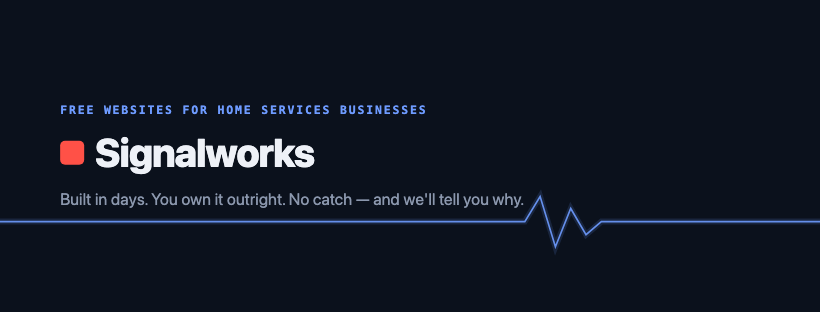
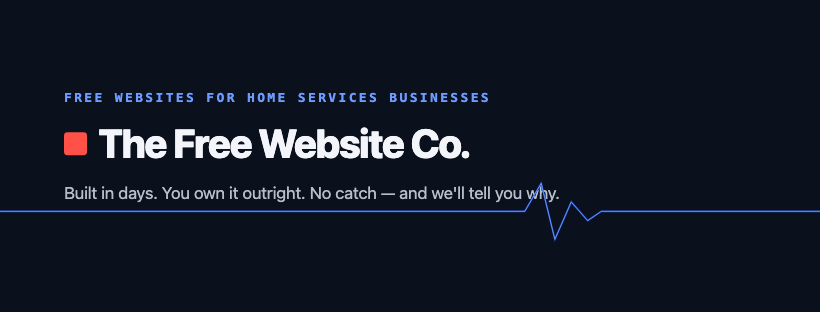
Rename Signalworks → The Free Website Co. (freewebsiteco.com)
- config: BRAND.name/short/parent slot, SITE_URL → https://freewebsiteco.com
- compact wordmark (BRAND.short) in header, footer, film header; parent byline slot in footer
- replace hardcoded brand strings in pages, demos, and living docs; prompt/source docs left verbatim
- regenerate og.png + social banners; retire name/domain checklist items
- ASSUMPTIONS entry for the rename

Changed region(s): [[0.0, 0.5769, 1.0, 0.8077], [0.061, 0.4038, 0.5793, 0.5769], [0.061, 0.2885, 0.6098, 0.375]]

diff --git a/src/config.ts b/src/config.ts
@@ -8,15 +8,19 @@
  * real numbers exist — FREE_BUILD.capacityPerMonth and CLEARED_SERVICES.
  */
 
-// Vercel preview URL until the real domain lands; swap once, everything follows.
-export const SITE_URL = 'https://signalworks-hall-hub.vercel.app';
+// The real domain. Vercel alias signalworks-hall-hub.vercel.app keeps working as a fallback.
+export const SITE_URL = 'https://freewebsiteco.com';
 
 export const BRAND = {
-  name: 'Signalworks',
+  name: 'The Free Website Co.',
+  /** Compact wordmark for headers/footers. */
+  short: 'Free Website Co.',
+  /** Parent/operating brand byline ("a ___ company"). Empty = no byline rendered. */
+  parent: '',
   tagline: 'Websites and apps that get service businesses found, called, and booked.',
   // Default meta description; individual pages override it.
   description:
-    'Signalworks builds free, professional websites — home services businesses first (HVAC, plumbing, electrical, roofing, landscaping), every business welcome. You own it outright: domain, files, everything. Built in days with AI-assisted development.',
+    'The Free Website Co. builds free, professional websites — home services businesses first (HVAC, plumbing, electrical, roofing, landscaping), every business welcome. You own it outright: domain, files, everything. Built in days with AI-assisted development.',
 } as const;
 
 export const CONTACT = {

diff --git a/src/styles/global.css b/src/styles/global.css
@@ -1,5 +1,5 @@
 /* ==========================================================================
-   Signalworks design system
+   The Free Website Co. design system
    Plain, direct, confident. Paper + ink + one signal color.
    ========================================================================== */
 
@@ -155,7 +155,7 @@ a:hover {
   background: var(--signal-tint);
 }
 
-/* Monospace eyebrow label — the recurring Signalworks motif */
+/* Monospace eyebrow label — the recurring brand motif */
 .eyebrow {
   font-family: var(--font-mono);
   font-size: var(--text-xs);

diff --git a/docs/LAUNCH-CHECKLIST.md b/docs/LAUNCH-CHECKLIST.md
@@ -1,4 +1,4 @@
-# Signalworks — Launch Checklist
+# The Free Website Co. — Launch Checklist
 
 Everything standing between here and a live business, in run-down order.
 Check things off as you go. **⚡ = I can do it the moment you say so.
@@ -8,19 +8,14 @@ Check things off as you go. **⚡ = I can do it the moment you say so.
 
 ## 0 · Decisions that unblock everything else (do these first)
 
-- [ ] 👤 **Name & domain decision.** The Signalworks namespace is crowded:
-  signalworks.com / .co / .io / .us are taken, and variants
-  (getsignalworks.com, trysignalworks.com, signalworkshq.com,
-  signalworks.site) were all registered within the last year — other
-  people are actively branding on this name. Options: (a) find an angle
-  that's free (signalworks.build / .dev / .studio looked possibly open —
-  verify at a registrar), (b) ~~run a USPTO search~~ **done — a LIVE PENDING
-  `SIGNALWORKS` application exists in class 042 (web design services),
-  serial 99570293; see §2**, (c) consider a name adjustment now, while it
-  costs nothing. Everything below (email, socials, GBP) waits on
-  this.
-- [ ] 👤 Buy the domain in **your own registrar account** (the same rule
-  the runbook gives clients).
+- [x] 👤 **Name & domain decision — DONE 2026-09-06.** Renamed to
+  **The Free Website Co.** and bought **freewebsiteco.com**. The name says
+  the offer, avoids the crowded "Signalworks" namespace entirely, and
+  retires the USPTO conflict (serial 99570293) — no attorney consult
+  needed for the mark. A parent/operating brand for paid services and
+  invoices is still to be chosen (~30-day horizon, before the first upsell).
+- [x] 👤 Buy the domain in **your own registrar account** — done, GoDaddy,
+  2026-09-06.
 - [ ] 👤 **Business email** on that domain (Google Workspace ~$7/mo or
   Zoho free tier). No @gmail on the site.
 - [ ] 👤 **Business phone number** (Google Voice is free; OpenPhone if you
@@ -78,7 +73,7 @@ Check things off as you go. **⚡ = I can do it the moment you say so.
   link, submit a form, open every page.
 - [ ] ⚡ Submit the sitemap to Google Search Console + Bing Webmaster
   Tools (needs the domain verified in your accounts).
-- [ ] 👤 Create a **Google Business Profile for Signalworks** — you're a
+- [ ] 👤 Create a **Google Business Profile for The Free Website Co.** — you're a
   service business in LA; practice what the site preaches.
 
 ## 2 · Legal & money
@@ -119,7 +114,7 @@ Check things off as you go. **⚡ = I can do it the moment you say so.
     serial **99570293**, classes **009 and 042**. Visible recital:
     "Downloadable mobile applications for tracking the user's…"
   **Why 042 matters:** class 042 is the class that covers website design
-  and development services — the exact class Signalworks would operate
+  and development services — the exact class The Free Website Co. would operate
   and register in. An identical wordmark, pending, in your class is the
   one scenario the earlier note flagged as worth real advice.
   **Nuance that cuts both ways:** it is *pending*, not registered
@@ -130,7 +125,7 @@ Check things off as you go. **⚡ = I can do it the moment you say so.
   an attorney do it.
 - [ ] 👤 **Trademark attorney consult (~$200–500, 30 minutes) — now
   justified, was optional.** Ask exactly: (1) what does serial 99570293
-  actually claim in class 042, (2) can I *use* Signalworks for web design
+  actually claim in class 042, (2) can I *use* The Free Website Co. for web design
   services under common law, (3) could I ever *register* it, (4) does
   their pending application create real cease-and-desist exposure. Use vs.
   register are different questions with different answers. Not legal
@@ -144,14 +139,14 @@ Check things off as you go. **⚡ = I can do it the moment you say so.
 - [ ] ⚡ GitHub org structure for client repos (repo per client domain,
   per the runbook).
 - [ ] 👤 **Stripe platform readiness** — Tyler's plan (2026-08-26):
-  create a **separate Signalworks tenant/account inside the LHF Stripe
+  create a **separate The Free Website Co. tenant/account inside the LHF Stripe
   organization**, which cleanly solves the red team's top blocker — the
-  client-facing brand is Signalworks, books stay separable, and LHF stays
+  client-facing brand is The Free Website Co., books stay separable, and LHF stays
   the parent. Then: (a) confirm the public business name + statement
-  descriptor on that tenant reads "Signalworks," (b)
+  descriptor on that tenant reads "The Free Website Co.," (b)
   update the platform's business description for the web-design use case
   (Stripe ToS: accurate representation), (c) attorney blesses the
-  LHF-platform/Signalworks-brand structure, (d) CPA confirms how
+  LHF-platform/The Free Website Co.-brand structure, (d) CPA confirms how
   platform-fee revenue books across entities. ⚡ Then I build Connect
   onboarding + pay page + one demo transaction, closing catalog A2.
 - [ ] 👤 **Track hours on the first three free builds** — the whole model
@@ -190,7 +185,7 @@ Check things off as you go. **⚡ = I can do it the moment you say so.
 - [ ] 👤 **GBP live before outreach, not after** — skeptical owners
   Google you first; a verified profile with real photos is the cheapest
   legitimacy signal there is.
-- [ ] ⚡ Decide on a small **"Site by Signalworks" footer credit** on
+- [ ] ⚡ Decide on a small **"Site by The Free Website Co." footer credit** on
   client builds (with an opt-out in the terms). It's the strongest free
   referral channel this model has.
 - [ ] ⚡ Content seeds I can draft: the "why free" explainer post, a

diff --git a/docs/pricing-proposal-care-suite.md b/docs/pricing-proposal-care-suite.md
@@ -7,7 +7,7 @@
 
 Design principles: quantities, never "unlimited support" vagueness;
 deliverables and response times, never outcomes; cancel anytime with the
-5-day full handoff on every tier; priced from Signalworks' real cost
+5-day full handoff on every tier; priced from The Free Website Co.'s real cost
 basis (static sites need no plugin babysitting) rather than agency
 convention.
 
@@ -83,10 +83,10 @@ owner's-guide template.
 ## Payments — "Get Paid Online" via Stripe Connect (added 2026-08-18)
 
 **Model:** Stripe Connect **Standard** accounts — the client owns a full
-Stripe account (dashboard, payouts, KYC) connected to Signalworks as the
+Stripe account (dashboard, payouts, KYC) connected to The Free Website Co. as the
 platform. Honors the runbook rule (never process payments through our
 account) and the ownership promise (they can disconnect anytime and keep
-the account). Signalworks collects a disclosed per-transaction
+the account). The Free Website Co. collects a disclosed per-transaction
 application fee; funds never touch us.
 
 **Deliverables (every tier, setup free):**
@@ -100,7 +100,7 @@ application fee; funds never touch us.
 
 **Fee ladder — the fee falls as the plan rises:**
 
-| Tier | Signalworks platform fee | Client total per transaction |
+| Tier | The Free Website Co. platform fee | Client total per transaction |
 | --- | --- | --- |
 | Free build, no plan | 0.75% | 3.65% + 30¢ |
 | Lights On ($29) | 0.50% | 3.40% + 30¢ |
@@ -120,7 +120,7 @@ still want to skip 'mail a check.'"
   Cloudflare Pages Function + one end-to-end demo transaction.
 - Disclosure in: pay page footer, Care/Front Office agreements,
   free-build agreement "not free" list ("payment processing: Stripe's
-  fees plus a disclosed Signalworks platform fee"), and /terms/.
+  fees plus a disclosed The Free Website Co. platform fee"), and /terms/.
 - Attorney review line: Stripe is merchant of record; clients complete
   their own verification in Stripe's flow; 1099-K reporting is theirs.
 
@@ -128,12 +128,12 @@ still want to skip 'mail a check.'"
 
 Stripe Connect is ALREADY set up through Tyler's holding company, **Long
 Hall Financial** — that existing platform will be used rather than a new
-Signalworks Stripe account. Implications to resolve (red-team audit +
+The Free Website Co. Stripe account. Implications to resolve (red-team audit +
 attorney):
 - Client-facing disclosure must name the platform entity: clients will
   see Long Hall Financial in Stripe onboarding/statements unless a
-  Signalworks profile/descriptor is configured on the platform.
-- Entity structure question changes: Signalworks operating as a
+  The Free Website Co. profile/descriptor is configured on the platform.
+- Entity structure question changes: The Free Website Co. operating as a
   brand/DBA under Long Hall Financial may simplify (or complicate) the
   CPA conversation in checklist §2.
 - Stripe platform profile should accurately reflect the web-design

diff --git a/ASSUMPTIONS.md b/ASSUMPTIONS.md
@@ -426,3 +426,12 @@ items are the ones worth reviewing before launch.
 - GHL note for delivery: A2P texting registration per client takes
   days-to-weeks — start at kickoff (catalog A6 discipline applies to the
   Lead Capture and Reputation services now being sold).
+
+## 2026-09-06 — Rename: Signalworks → The Free Website Co.
+
+- **Decision (Tyler):** business and site renamed to **The Free Website Co.**; domain **freewebsiteco.com** bought at GoDaddy. Reasons: the name states the offer, the Signalworks namespace was crowded, and a LIVE/PENDING USPTO application for SIGNALWORKS in class 042 (serial 99570293) made the old name a legal risk. The trademark-attorney task is retired by the rename.
+- **Structure:** freewebsiteco.com is the lead-gen "door"; a separate parent/operating brand (to be chosen within ~30 days, before the first paid upsell) will carry paid services and invoices so the business stays decoupled from Long Hall Financial and exit-able. `BRAND.parent` in `src/config.ts` is an empty byline slot for it; the footer renders "a ___ company" only when it is set.
+- **Wordmark:** headers, footer, and the film header use the compact `BRAND.short` ("Free Website Co."); titles, meta, structured data, and legal text use the full `BRAND.name`.
+- **Left verbatim on purpose:** `docs/site-redraft-prompt.md`, `site-repair-prompt.md`, `site-upsell-prompt.md` (source-of-record prompts), `docs/trademark-consult-brief.md` (historical), earlier entries in this file, the GitHub repo name, the Vercel project name, and the `signalworks-hall-hub.vercel.app` alias (kept as a fallback URL).
+- **Assets:** `public/og.png` and the three social banners in `docs/brand-assets/` regenerated with the new name; `avatar-512.png` and `favicon.svg` are text-free and unchanged.
+- **Deploy:** `SITE_URL` → https://freewebsiteco.com; apex + www attached to the Vercel project; DNS at GoDaddy still to be pointed by Tyler (A @ 76.76.21.21, CNAME www → cname.vercel-dns.com).

diff --git a/docs/SERVICES-CATALOG.md b/docs/SERVICES-CATALOG.md
@@ -1,4 +1,4 @@
-# Signalworks — Full Service Catalog & Build Feasibility Map
+# The Free Website Co. — Full Service Catalog & Build Feasibility Map
 
 > Internal document — never published to the site. The public site only ever
 > shows services whose ledger rows below are CLOSED (see "The rule" at the
@@ -114,7 +114,7 @@ Gap to close: either (a) get certified and manage a small budget on your own bus
 
 | # | Assumption / prerequisite | Blocks | Status |
 |---|---|---|---|
-| A1 | Supabase (or equal) account strategy decided: client-owned vs. yours | Web apps, portals | CLOSED — client-owned accounts (Supabase, Stripe, domain, email). Signalworks retains admin access for delivery and Care Plan work. This matches the public "your data, your accounts, your code" promise. |
+| A1 | Supabase (or equal) account strategy decided: client-owned vs. yours | Web apps, portals | CLOSED — client-owned accounts (Supabase, Stripe, domain, email). The Free Website Co. retains admin access for delivery and Care Plan work. This matches the public "your data, your accounts, your code" promise. |
 | A2 | Stripe flows tested end-to-end on a demo | E-commerce | OPEN |
 | A3 | Shopify Partner account created | Shopify builds | OPEN |
 | A4 | One Expo app published under own dev accounts | Native mobile apps | OPEN |

diff --git a/docs/care-plan-agreement.md b/docs/care-plan-agreement.md
@@ -5,7 +5,7 @@
 
 ---
 
-**Between:** [LEGAL ENTITY / YOUR NAME], doing business as Signalworks
+**Between:** [LEGAL ENTITY / YOUR NAME], doing business as The Free Website Co.
 ("we") and ______________________________ ("you"), for the website at
 ______________________________.
 
@@ -26,7 +26,7 @@ deliverability setup $100 one-time.
 **Payments (optional):** if you ask us to set up online payments (invoice
 payments, deposits, checkout), they run through your own Stripe account,
 connected to a payments platform operated by Long Hall Financial
-(Signalworks' parent company). Stripe's processing fees pass through
+(The Free Website Co.'s parent company). Stripe's processing fees pass through
 unchanged; the platform fee for your plan is disclosed in writing before
 the payment page goes live, and appears on the page itself. You can
 disconnect your Stripe account at any time and keep it.
@@ -64,7 +64,7 @@ disconnect your Stripe account at any time and keep it.
 
 | | |
 | --- | --- |
-| Signalworks: ______________________ | Client: ______________________ |
+| The Free Website Co.: ______________________ | Client: ______________________ |
 | Date: ______________________ | Date: ______________________ |
 
 > Attorney to add/confirm: governing law (California), liability

diff --git a/docs/owners-guide-template.md b/docs/owners-guide-template.md
@@ -4,7 +4,7 @@
 > [brackets] gets replaced. Keep it to two pages; it accompanies the
 > recorded walkthrough video.
 
-Your website: **[domain]** — live since [date], built by Signalworks.
+Your website: **[domain]** — live since [date], built by The Free Website Co.
 
 ## What you own (everything)
 
@@ -22,7 +22,7 @@ recovery email is yours.
 ## When something needs to change
 
 - **Something broke** (form stopped arriving, page won't load, button
-  does nothing): email [signalworks email]. If we built it and it broke,
+  does nothing): email [Free Website Co. email]. If we built it and it broke,
   the fix is free for 60 days after launch — after that, we'll tell you
   plainly what it costs before touching anything.
 - **Words, hours, prices, photos need updating:** [Care-plan clients:
@@ -47,4 +47,4 @@ People will call and email claiming your website or Google listing has
 "urgent problems" they can fix for a fee. They are lying. When in doubt,
 forward it to us — checking costs you nothing.
 
-— Signalworks · [email] · [phone]
+— The Free Website Co. · [email] · [phone]

diff --git a/README.md b/README.md
@@ -1,6 +1,6 @@
-# Signalworks — marketing site
+# The Free Website Co. — marketing site
 
-The public website for Signalworks. Built with [Astro](https://astro.build)
+The public website for The Free Website Co. Built with [Astro](https://astro.build)
 as a fully static site: no database, no CMS, nothing to patch on a schedule.
 
 ## The one file you'll edit most
@@ -11,7 +11,7 @@ as a fully static site: no database, no CMS, nothing to patch on a schedule.
 | --- | --- |
 | Phone, email, address | `CONTACT` — currently placeholders, replace before launch |
 | Contact form endpoint | `CONTACT.formEndpoint` — paste a Formspree/Basin URL and the form appears on /contact/ automatically |
-| Real domain | `SITE_URL` — replace `https://signalworks.example` before launch |
+| Real domain | `SITE_URL` — set to `https://freewebsiteco.com` |
 | Prices & packages | `PRICING` and `CARE_PLAN` — edit numbers/bullets here, the pricing page and structured data update themselves |
 | Navigation | `NAV` and `NAV_CTA` |
 | Services list | `SERVICES` — see "Adding a new service" below |

diff --git a/docs/marketing/handoff-and-referral-templates.md b/docs/marketing/handoff-and-referral-templates.md
@@ -30,7 +30,7 @@ One favor, only if you're happy: if you know one other business owner
 who needs what you just got, forward them [site link]. That's how this
 works.
 
-— [Name], Signalworks
+— [Name], The Free Website Co.
 
 ## The handoff email (Care Plan client)
 
@@ -50,9 +50,9 @@ Same as above, with the middle paragraph swapped:
 
 If you approve the footer-credit idea, client sites get one quiet line:
 
-> Site by Signalworks — built free. [link]
+> Site by The Free Website Co. — built free. [link]
 
 The signed agreement then needs one added sentence: "The site footer may
-include a one-line credit with a link to Signalworks; you may opt out at
+include a one-line credit with a link to The Free Website Co.; you may opt out at
 any time and we'll remove it within 5 business days." Opt-out keeps it
 honest and un-pushy.

diff --git a/docs/a2p-cheatsheet.md b/docs/a2p-cheatsheet.md
@@ -32,10 +32,10 @@ One brand + campaign per client sub-account.
   EIN but is more limited. Ask for the client's EIN at intake for these
   services.
 - **DBA wrinkle (relevant to us):** a company with an EIN operating
-  under a different brand name (hello, Signalworks under Long Hall
+  under a different brand name (hello, The Free Website Co. under Long Hall
   Financial) includes "We are doing DBA as [name]" in the campaign
   description, and the website/privacy policy must show both names
-  consistently. Flag this when registering the Signalworks line itself.
+  consistently. Flag this when registering the The Free Website Co. line itself.
 
 ## Top rejection causes (all avoidable at build time)
 

diff --git a/docs/free-build-agreement.md b/docs/free-build-agreement.md
@@ -7,7 +7,7 @@
 
 ---
 
-**Between:** [LEGAL ENTITY / YOUR NAME], doing business as Signalworks
+**Between:** [LEGAL ENTITY / YOUR NAME], doing business as The Free Website Co.
 ("we") and ______________________________ ("you"), for the business
 ______________________________.
 
@@ -68,7 +68,7 @@ care-plan agreement).
 
 | | |
 | --- | --- |
-| Signalworks: ______________________ | Client: ______________________ |
+| The Free Website Co.: ______________________ | Client: ______________________ |
 | Date: ______________________ | Date: ______________________ |
 
 > Attorney to add/confirm: governing law (California), limitation of
